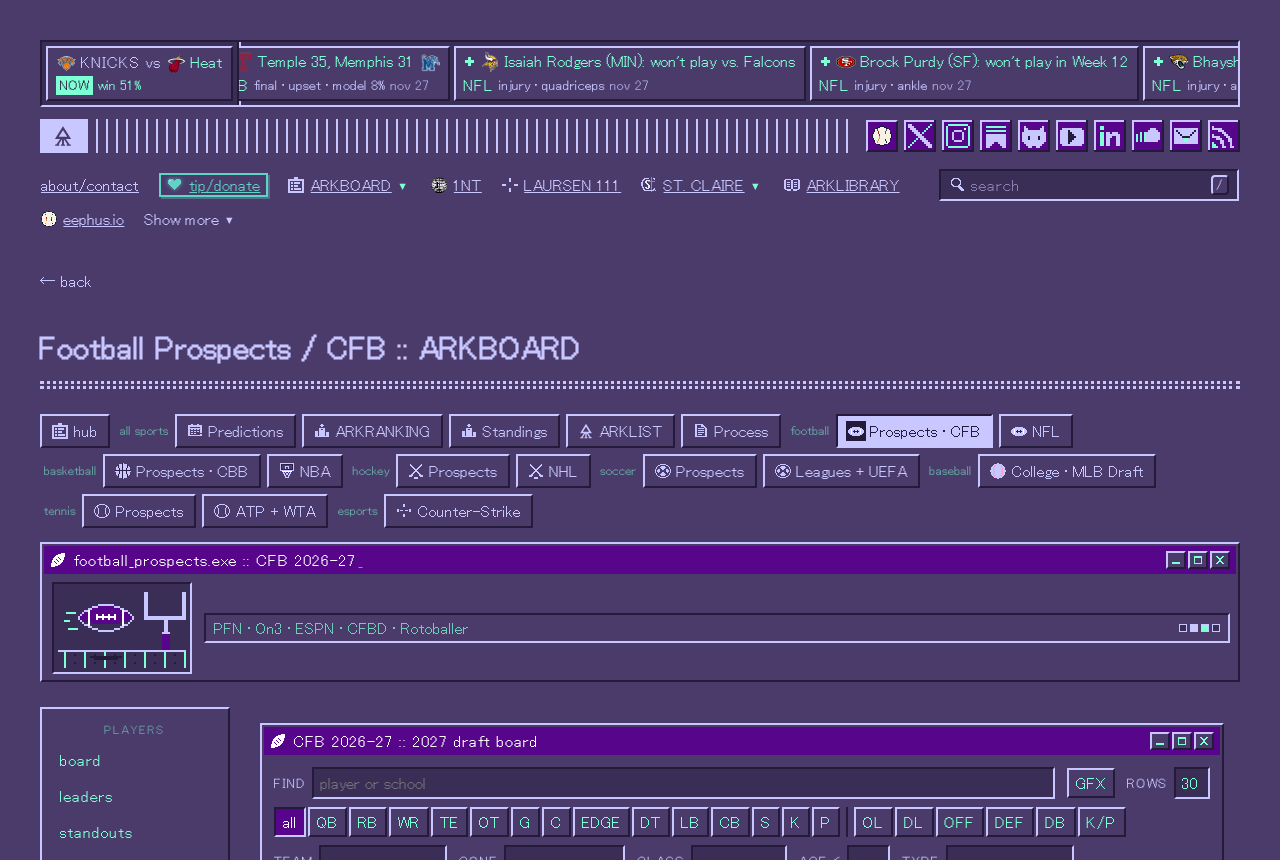
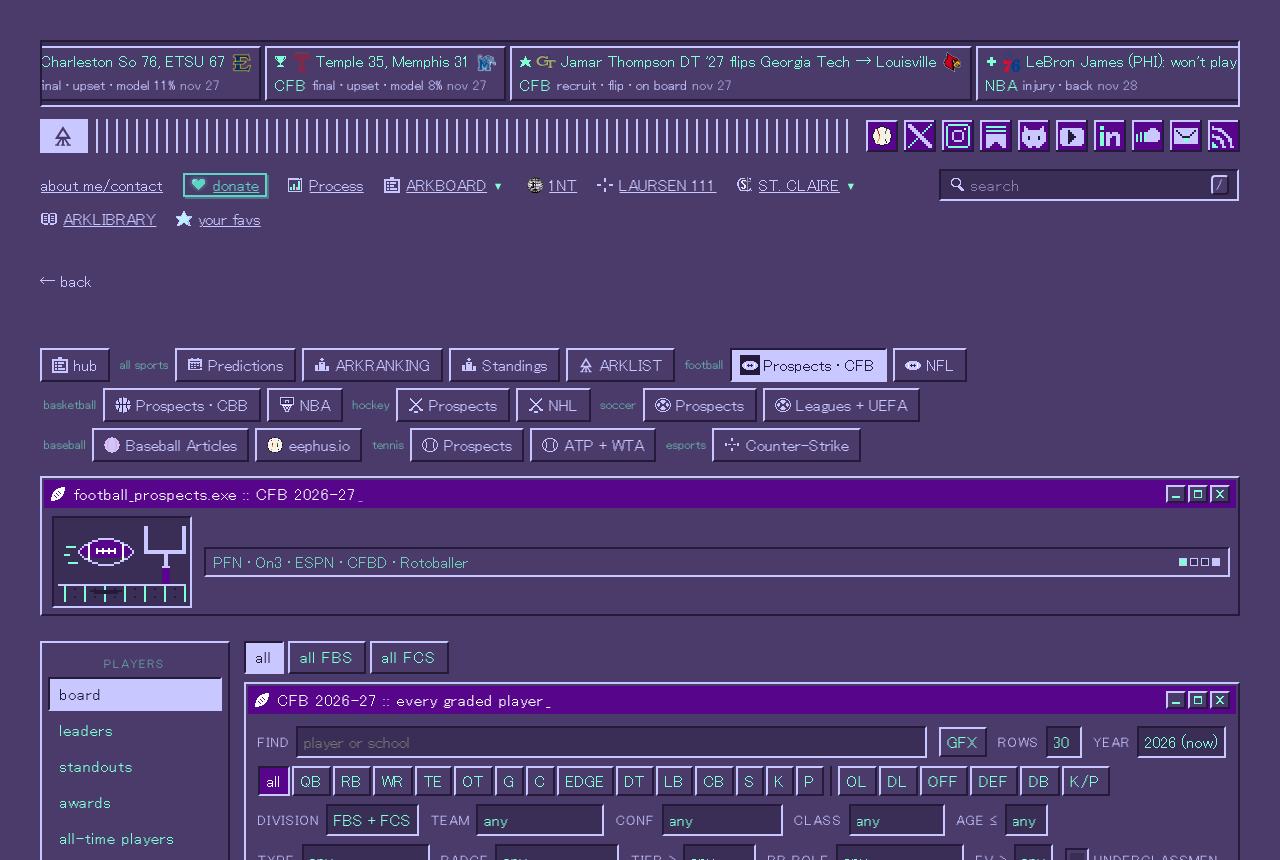
PROCESS #0: current video.exe and CFB board screenshots
Claude-Session: https://claude.ai/code/session_01HcDrThtquVbktCjeUrMPoY

diff --git a/content/posts/process-0-design-philosophy.md b/content/posts/process-0-design-philosophy.md
@@ -34,7 +34,7 @@ This is PROCESS #0. The Process updates are a monthly record of everything that 
 
 What I loved about design growing up in the 2000s came from old operating systems and computers like Gateway and Windows 98, game menus like the ones in the 2000s Madden games and MLB 2K, the Nintendo DS and PictoChat UI, MSN Messenger, old internet websites like MySpace, and broadcast graphics, mainly from 2000s era SNY. In general, it came from the sites and software of the 2000s up until the inception of the iPhone, all of which had texture, borders, and depth, and all of which felt like they had been designed by a person with a specific vision in mind.
 
-{{< image src="/img/process-0/video-exe.png" alt="The video.exe player on the arkndjl.net home page: a bezel screen, an LCD with the track time and title, channel buttons, a scrolling track list and transport buttons, in purple, lilac and teal" position="center" >}}
+{{< image src="/img/process-0/video-exe.png" alt="The video.exe player on the arkndjl.net home page: a bezel screen with a pixel play button, an LCD with the track time, title and tags, channel buttons, a find and tag strip, a scrolling track list, transport buttons, a favorite star and a volume meter, in purple, lilac and teal" position="center" >}}
 
 What I dislike most about the "frictionless" nature of modern design is the homogenization of design into what is effectively minimalist slop, something that I attribute heavily to Apple's design philosophy effectively obliterating the world following the release of the iPhone. I dislike rounded corners, and I dislike stuff like Liquid Glass.
 
@@ -54,7 +54,7 @@ I think friction is inherently good, and the only type of "friction" I dislike i
 
 I believe strongly in cybergothicism and organized maximalism, which means making everything available at once while building a structure underneath it that makes all of it readable once you learn how it works.
 
-{{< image src="/img/process-0/arkboard-cfb.png" alt="The College Football ARKBOARD: a news ticker across the top, pixel social tiles, the menu, a row of buttons for every ARKBOARD page grouped by sport, and the football_prospects.exe window with the draft board below it" position="center" >}}
+{{< image src="/img/process-0/arkboard-cfb.png" alt="The College Football ARKBOARD: a news ticker across the top, pixel social tiles, the menu, a row of buttons for every ARKBOARD page grouped by sport, and the football_prospects.exe window with the board of every graded player below it" position="center" >}}
 
 I love informationally dense tables because they allow for delving deep into information and data immediately, all in one place, which is why the tables on the site are as wide as they are. A player's FV, age, size, production, market price, draft odds, and his school's pay all sit in the same row, and the reader can sort by whichever one they care about, where a minimalist site would split the same information across several pages with a lot of white space in between. What keeps it readable is that every board leads with the stat it ranks by and then the context needed to read it, the column groups are boxed and tinted the same way on every page, and every sport's page has the same groups in the same order, so that once you learn how to read one sport you can read all of them.
 
